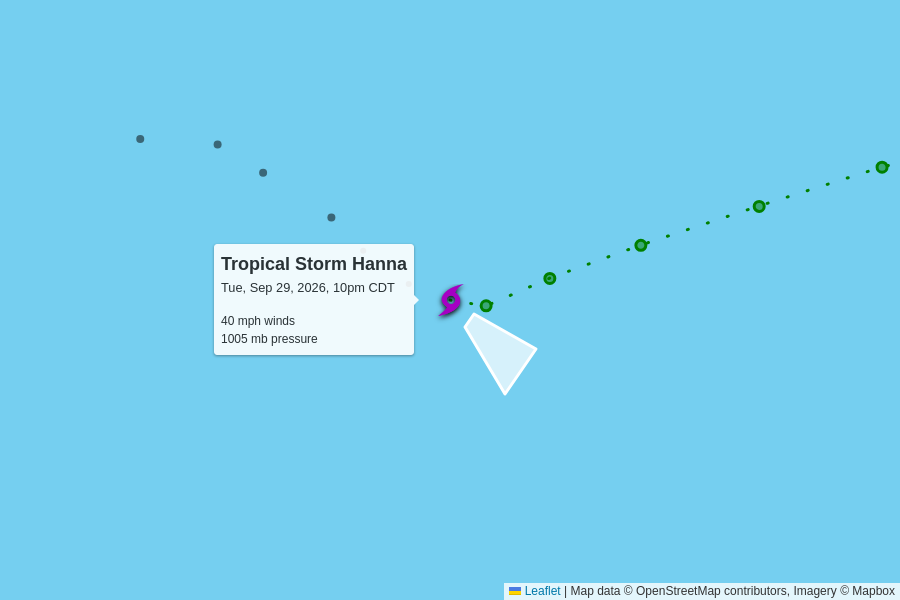
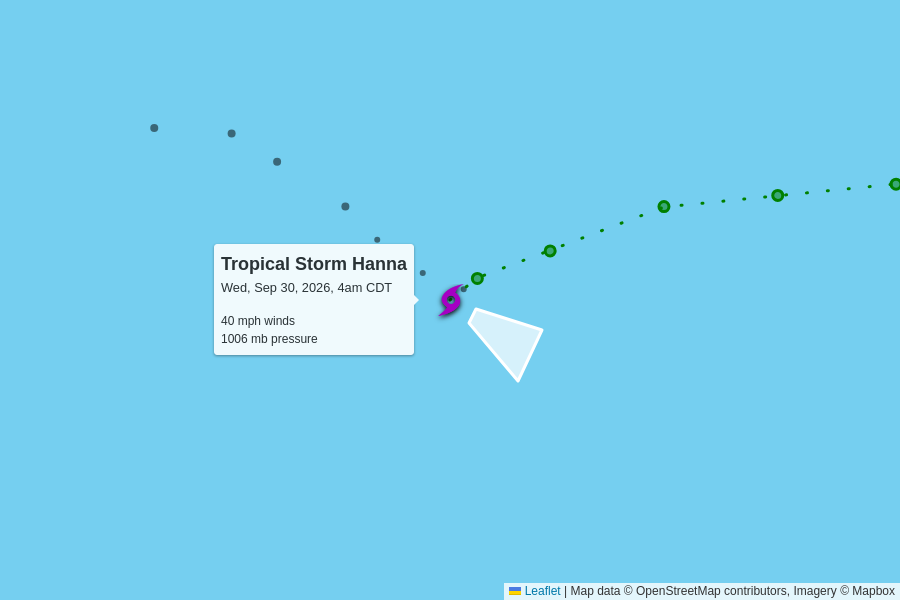
automatic update

diff --git a/docs/2026.html b/docs/2026.html
@@ -45,13 +45,13 @@
       <grid-container>
           <grid-row>
             <script type="text/json" id="storm_data_AL082026">
-              {"pressure":[{"timestamp":"2026-09-28T15:00:00.000Z","value":1006},{"timestamp":"2026-09-28T21:00:00.000Z","value":1006},{"timestamp":"2026-09-29T03:00:00.000Z","value":1002},{"timestamp":"2026-09-29T09:00:00.000Z","value":1002},{"timestamp":"2026-09-29T15:00:00.000Z","value":1004},{"timestamp":"2026-09-29T21:00:00.000Z","value":1005},{"timestamp":"2026-09-30T03:00:00.000Z","value":1005}],"wind":[{"timestamp":"2026-09-28T15:00:00.000Z","value":45},{"timestamp":"2026-09-28T21:00:00.000Z","value":45},{"timestamp":"2026-09-29T03:00:00.000Z","value":45},{"timestamp":"2026-09-29T09:00:00.000Z","value":45},{"timestamp":"2026-09-29T15:00:00.000Z","value":40},{"timestamp":"2026-09-29T21:00:00.000Z","value":40},{"timestamp":"2026-09-30T03:00:00.000Z","value":40}]}
+              {"pressure":[{"timestamp":"2026-09-28T15:00:00.000Z","value":1006},{"timestamp":"2026-09-28T21:00:00.000Z","value":1006},{"timestamp":"2026-09-29T03:00:00.000Z","value":1002},{"timestamp":"2026-09-29T09:00:00.000Z","value":1002},{"timestamp":"2026-09-29T15:00:00.000Z","value":1004},{"timestamp":"2026-09-29T21:00:00.000Z","value":1005},{"timestamp":"2026-09-30T03:00:00.000Z","value":1005},{"timestamp":"2026-09-30T09:00:00.000Z","value":1006}],"wind":[{"timestamp":"2026-09-28T15:00:00.000Z","value":45},{"timestamp":"2026-09-28T21:00:00.000Z","value":45},{"timestamp":"2026-09-29T03:00:00.000Z","value":45},{"timestamp":"2026-09-29T09:00:00.000Z","value":45},{"timestamp":"2026-09-29T15:00:00.000Z","value":40},{"timestamp":"2026-09-29T21:00:00.000Z","value":40},{"timestamp":"2026-09-30T03:00:00.000Z","value":40},{"timestamp":"2026-09-30T09:00:00.000Z","value":40}]}
             </script>              <grid-container class="storm">
                 <grid-row onClick="toggle('storm_AL082026')">
                   <h2>
                     Tropical Storm Hanna
                     <div class="updated">
-                      last updated <time datetime="2026-09-30T03:00:00.000Z">2026-09-30T03:00:00.000Z</time>
+                      last updated <time datetime="2026-09-30T09:00:00.000Z">2026-09-30T09:00:00.000Z</time>
                     </div>
                   </h2>
                 </grid-row>
@@ -72,14 +72,14 @@
                           0 mph since last update
                         </td>
                         <td>
-                          1005 mb
+                          1006 mb
                           <br>
-                          0 mb since last update
+                          +1 mb since last update
                         </td>
                         <td>
-                          12 mph to the southeast
+                          5 mph to the east-southeast
                           <br>
-                          <span style="display: inline-block; font-size: 1.5em; transform: rotate(130deg);">↑</span>
+                          <span style="display: inline-block; font-size: 1.5em; transform: rotate(120deg);">↑</span>
                         </td>
                         <td>
                           <a href="https://raw.githubusercontent.com/mgwalker/atlantic-hurricanes/main/data/csv/AL082026.csv">AL082026.csv</a>

diff --git a/docs/index.html b/docs/index.html
@@ -45,13 +45,13 @@
       <grid-container>
           <grid-row>
             <script type="text/json" id="storm_data_AL082026">
-              {"pressure":[{"timestamp":"2026-09-28T15:00:00.000Z","value":1006},{"timestamp":"2026-09-28T21:00:00.000Z","value":1006},{"timestamp":"2026-09-29T03:00:00.000Z","value":1002},{"timestamp":"2026-09-29T09:00:00.000Z","value":1002},{"timestamp":"2026-09-29T15:00:00.000Z","value":1004},{"timestamp":"2026-09-29T21:00:00.000Z","value":1005},{"timestamp":"2026-09-30T03:00:00.000Z","value":1005}],"wind":[{"timestamp":"2026-09-28T15:00:00.000Z","value":45},{"timestamp":"2026-09-28T21:00:00.000Z","value":45},{"timestamp":"2026-09-29T03:00:00.000Z","value":45},{"timestamp":"2026-09-29T09:00:00.000Z","value":45},{"timestamp":"2026-09-29T15:00:00.000Z","value":40},{"timestamp":"2026-09-29T21:00:00.000Z","value":40},{"timestamp":"2026-09-30T03:00:00.000Z","value":40}]}
+              {"pressure":[{"timestamp":"2026-09-28T15:00:00.000Z","value":1006},{"timestamp":"2026-09-28T21:00:00.000Z","value":1006},{"timestamp":"2026-09-29T03:00:00.000Z","value":1002},{"timestamp":"2026-09-29T09:00:00.000Z","value":1002},{"timestamp":"2026-09-29T15:00:00.000Z","value":1004},{"timestamp":"2026-09-29T21:00:00.000Z","value":1005},{"timestamp":"2026-09-30T03:00:00.000Z","value":1005},{"timestamp":"2026-09-30T09:00:00.000Z","value":1006}],"wind":[{"timestamp":"2026-09-28T15:00:00.000Z","value":45},{"timestamp":"2026-09-28T21:00:00.000Z","value":45},{"timestamp":"2026-09-29T03:00:00.000Z","value":45},{"timestamp":"2026-09-29T09:00:00.000Z","value":45},{"timestamp":"2026-09-29T15:00:00.000Z","value":40},{"timestamp":"2026-09-29T21:00:00.000Z","value":40},{"timestamp":"2026-09-30T03:00:00.000Z","value":40},{"timestamp":"2026-09-30T09:00:00.000Z","value":40}]}
             </script>              <grid-container class="storm">
                 <grid-row onClick="toggle('storm_AL082026')">
                   <h2>
                     Tropical Storm Hanna
                     <div class="updated">
-                      last updated <time datetime="2026-09-30T03:00:00.000Z">2026-09-30T03:00:00.000Z</time>
+                      last updated <time datetime="2026-09-30T09:00:00.000Z">2026-09-30T09:00:00.000Z</time>
                     </div>
                   </h2>
                 </grid-row>
@@ -72,14 +72,14 @@
                           0 mph since last update
                         </td>
                         <td>
-                          1005 mb
+                          1006 mb
                           <br>
-                          0 mb since last update
+                          +1 mb since last update
                         </td>
                         <td>
-                          12 mph to the southeast
+                          5 mph to the east-southeast
                           <br>
-                          <span style="display: inline-block; font-size: 1.5em; transform: rotate(130deg);">↑</span>
+                          <span style="display: inline-block; font-size: 1.5em; transform: rotate(120deg);">↑</span>
                         </td>
                         <td>
                           <a href="https://raw.githubusercontent.com/mgwalker/atlantic-hurricanes/main/data/csv/AL082026.csv">AL082026.csv</a>
